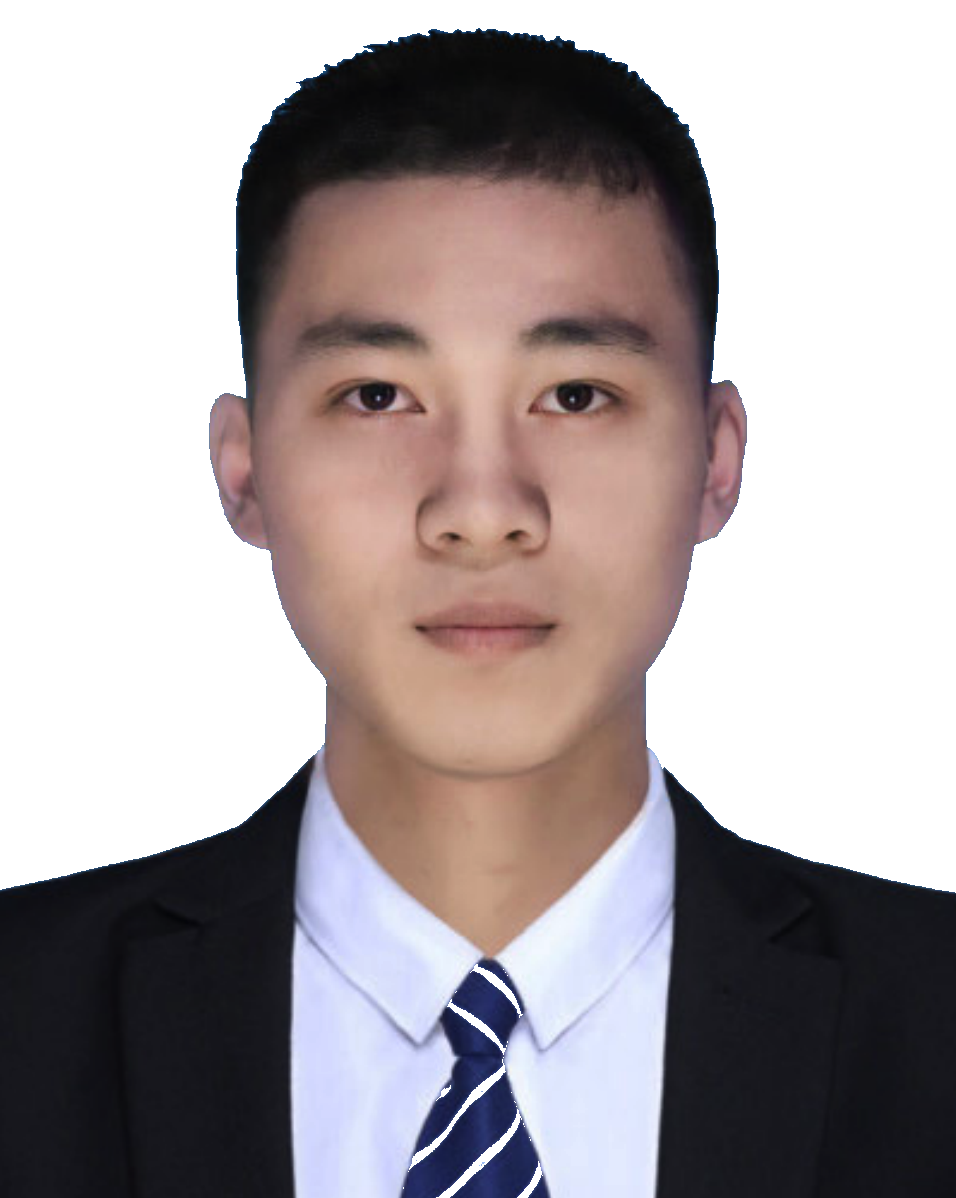
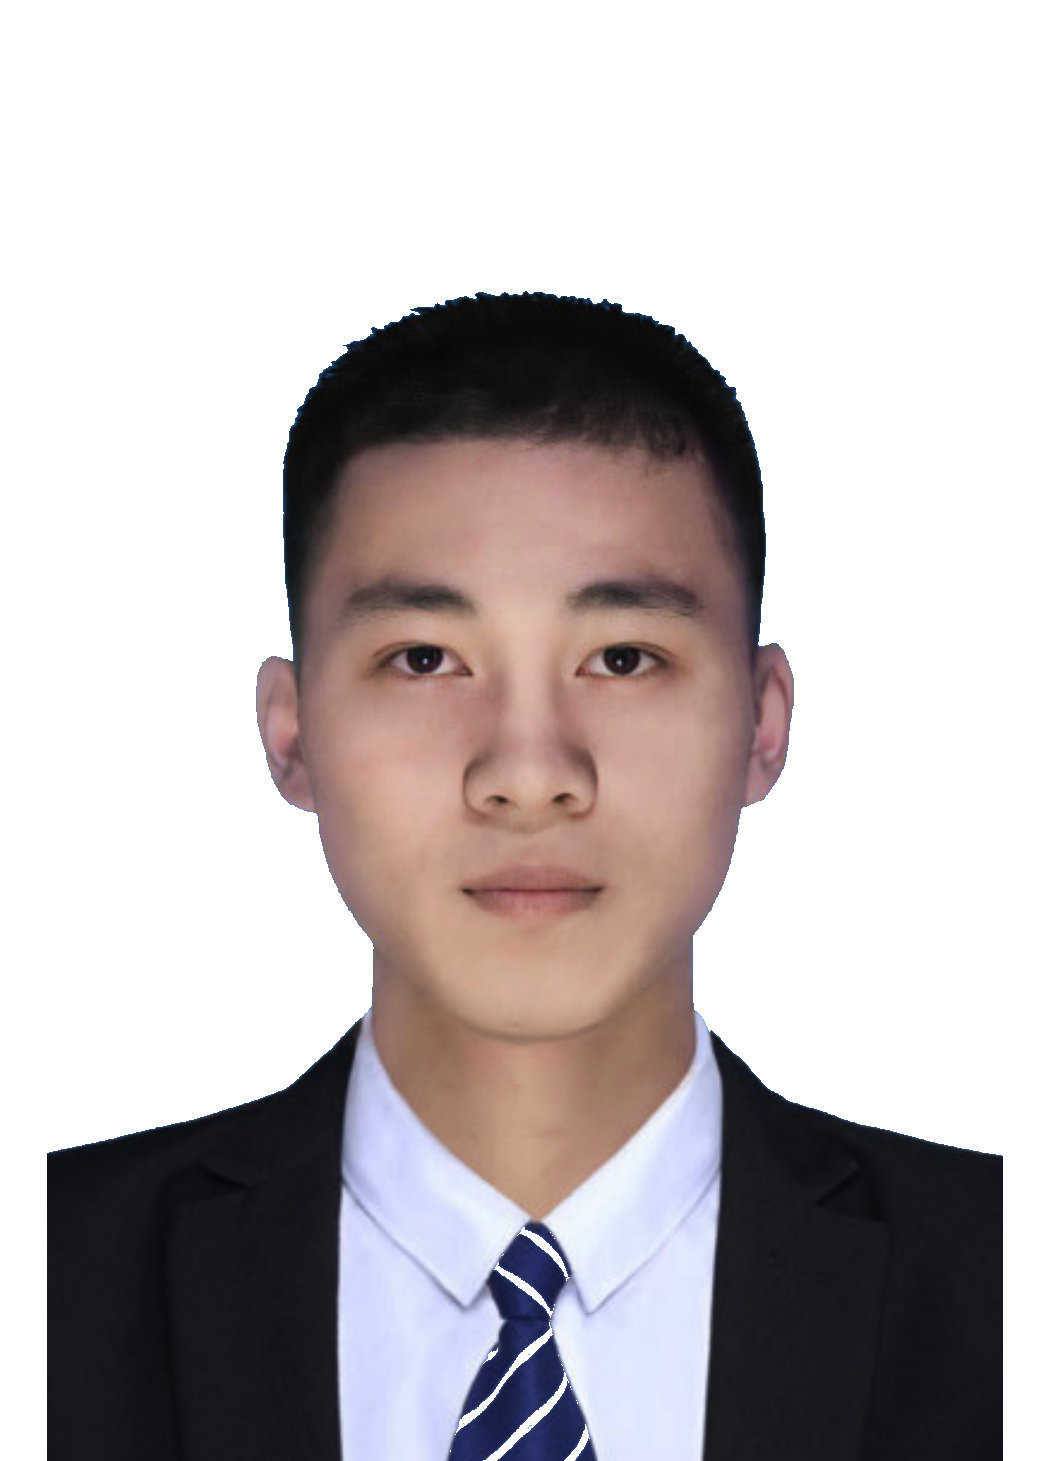
调整头像大小和位置，头顶留白

diff --git a/static/css/main.css b/static/css/main.css
@@ -137,13 +137,13 @@ section .main-body strong {
 }
 
 #avatar img {
-    height: max(130px,min(200px,calc(100vw/6)));
-    width: max(130px,min(200px,calc(100vw/6)));
+    height: max(160px,min(240px,calc(100vw/5)));
+    width: max(160px,min(240px,calc(100vw/5)));
     box-shadow: 0 12px 40px rgba(17, 87, 64, 0.35);
     border: 4px solid #ffffff;
     border-radius: 50%;
     object-fit: cover;
-    object-position: center 20%;
+    object-position: center top;
     transition: transform 0.3s ease, box-shadow 0.3s ease;
 }
 
